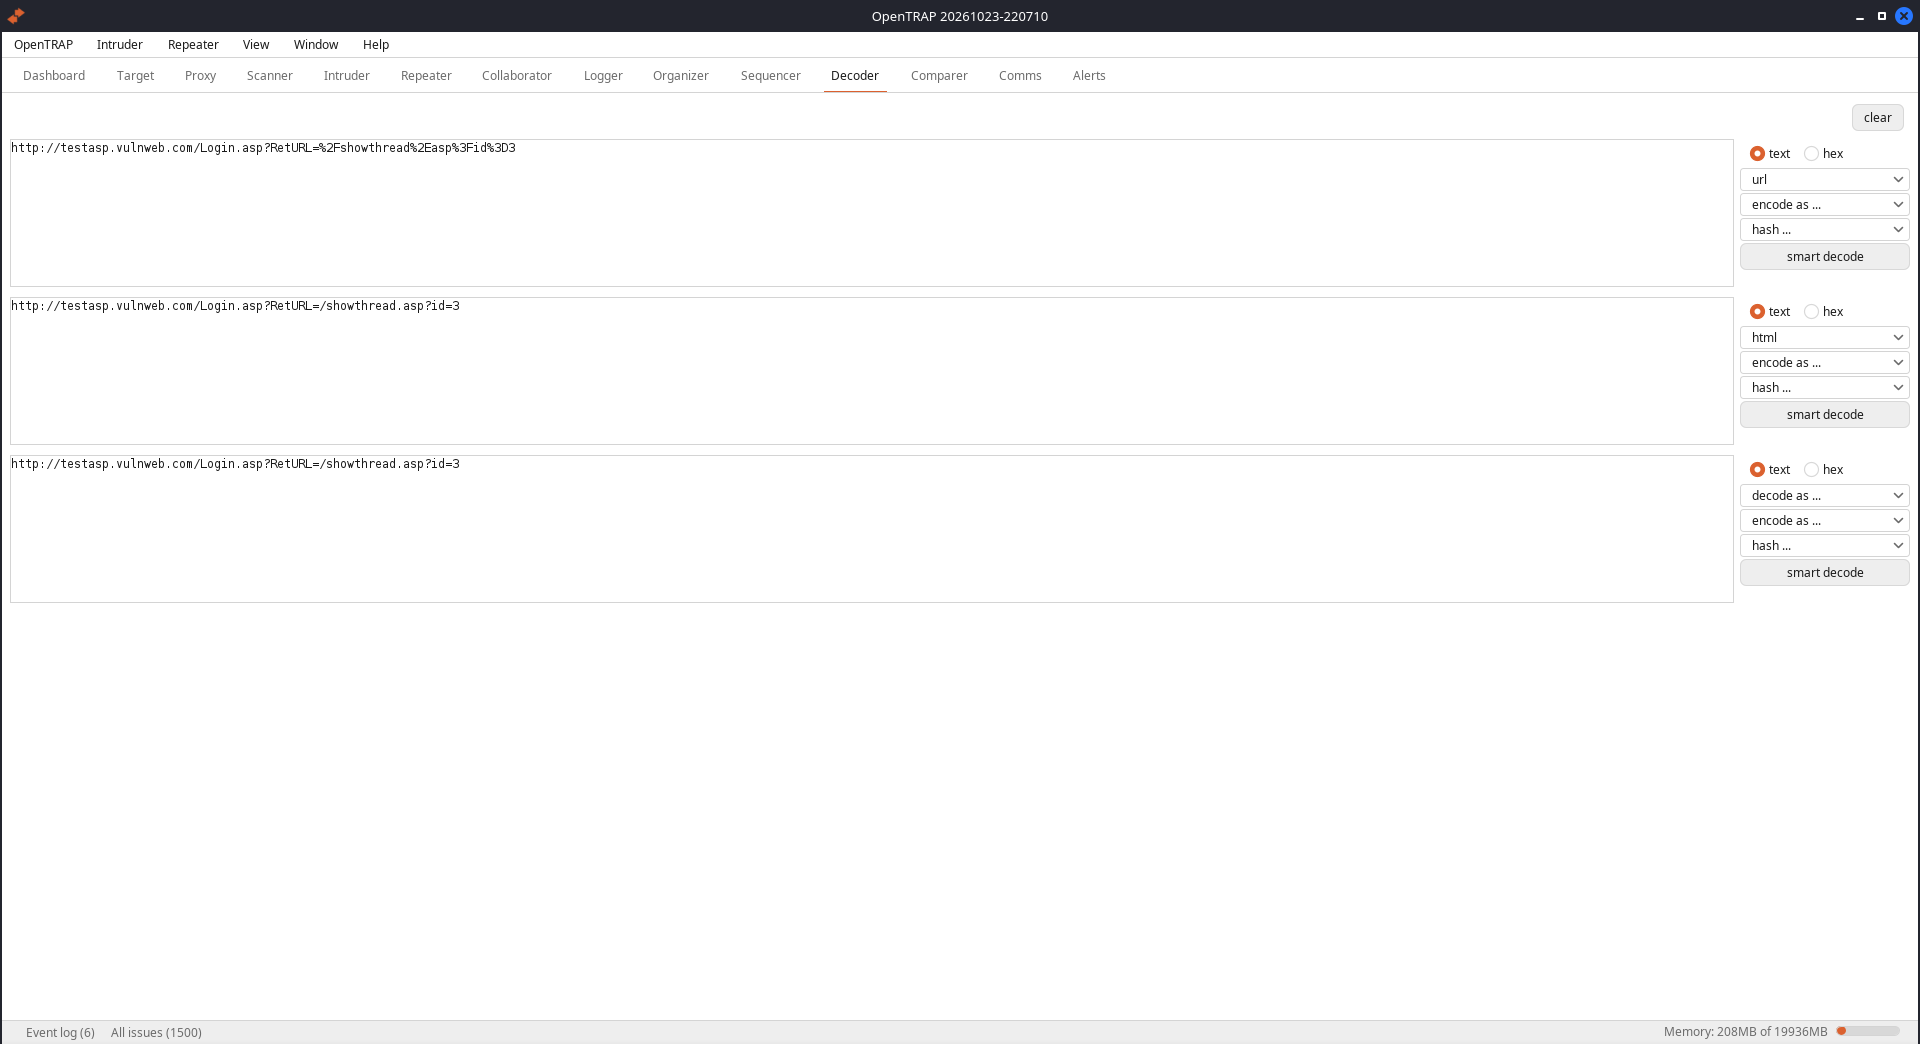
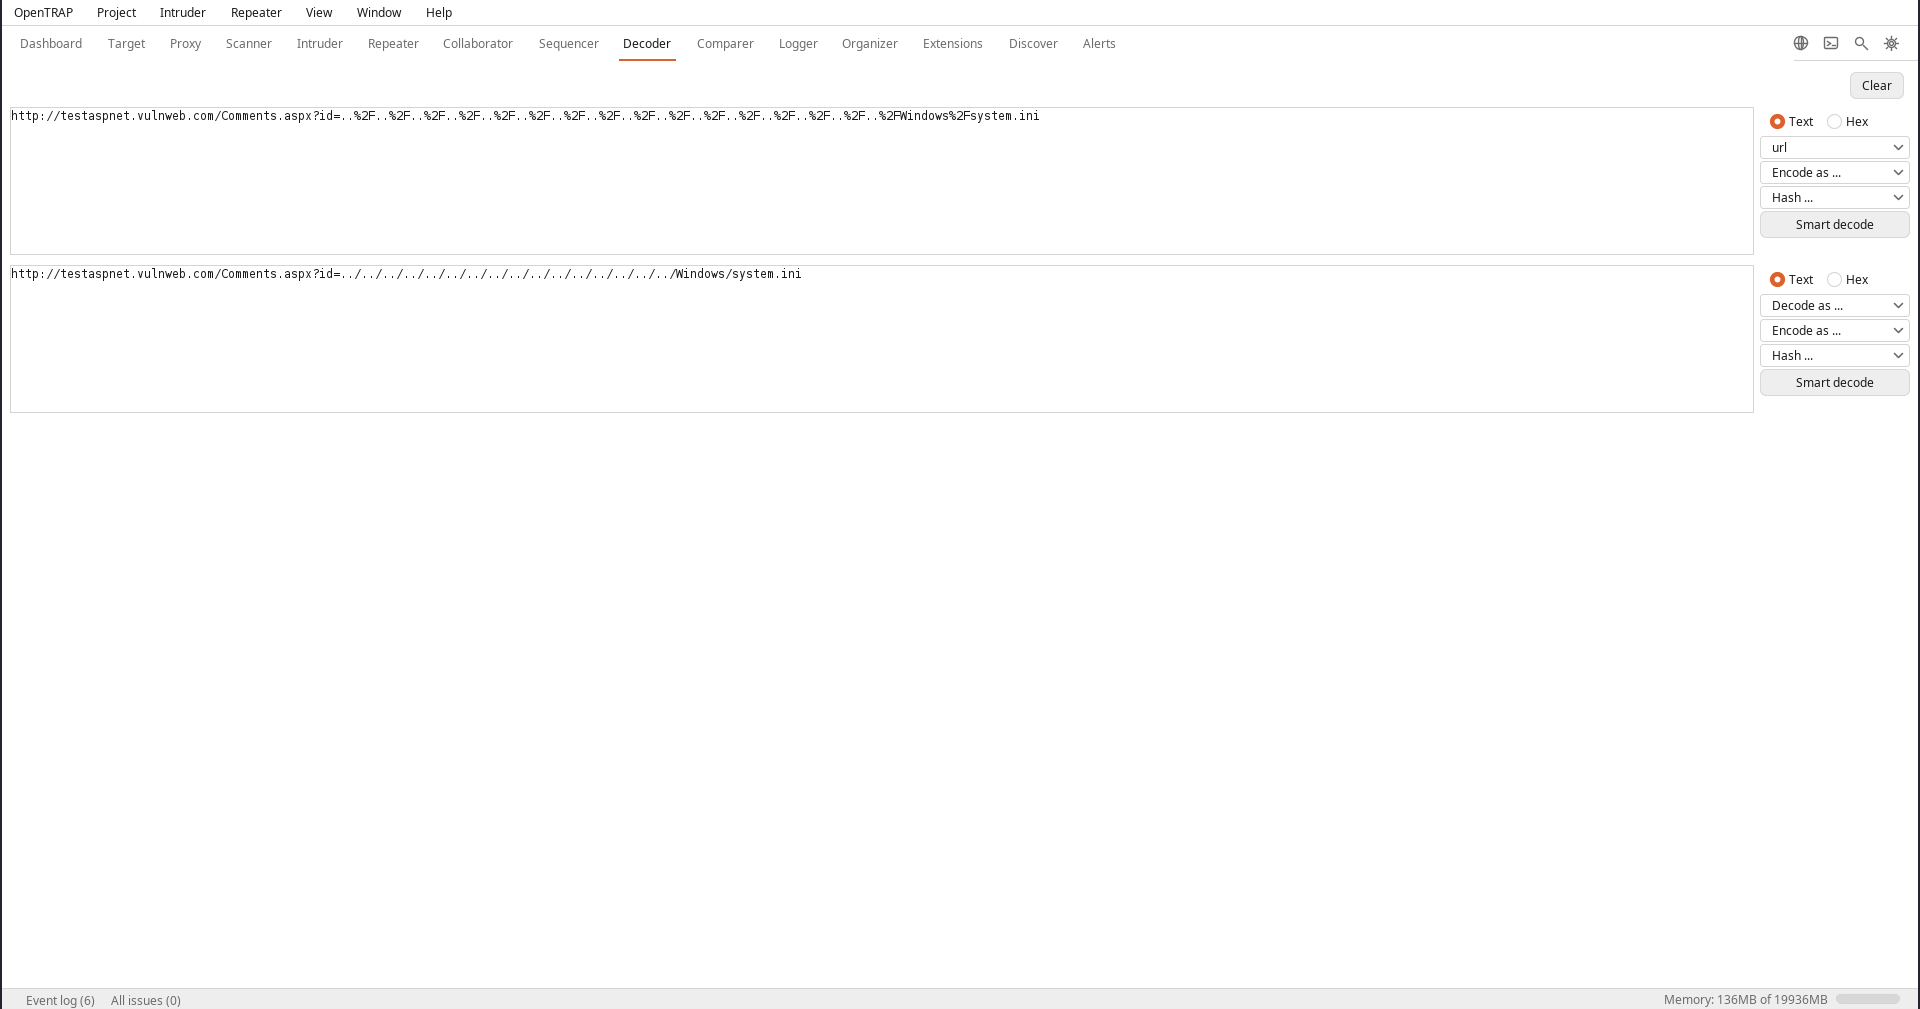
Refresh the screenshots and keep only the ones that earn their place
New captures of the Dashboard, Target, Proxy, Intruder, Collaborator, Logger
and Decoder from the current interface, cropped to the application. The
wizard, custom configuration, Repeater and About shots are gone from the
README and the site: seven pictures show the suite; eleven showed it twice.

diff --git a/README.md b/README.md
@@ -37,9 +37,9 @@ wget https://github.com/opentrap/opentrap/releases/latest/download/opentrap-x86_
 
 <div align="center">
 
-<a href="docs/images/dashboard.png"><img src="docs/images/dashboard.png" width="100%" alt="OpenTRAP dashboard with a crawl finished, an active audit running, and the live table of the most serious vulnerabilities found"></a>
+<a href="docs/images/dashboard.png"><img src="docs/images/dashboard.png" width="100%" alt="OpenTRAP dashboard with a crawl and an audit finished, their cards showing locations found and issues by severity, and the live table of the most serious vulnerabilities found"></a>
 
-<p><sub>A live audit on the Dashboard: crawl complete, active scan running, high-severity findings arriving as they are confirmed.</sub></p>
+<p><sub>The Dashboard after a scan: the crawl's locations and requests, the audit's findings by severity, and the most serious vulnerabilities as they were confirmed.</sub></p>
 
 </div>
 
@@ -98,16 +98,6 @@ licence.
 <table>
 <tr>
 <td width="50%" valign="top">
-<a href="docs/images/scan-config.png"><img src="docs/images/scan-config.png" alt="New scan wizard on the scan-configuration step, showing the Lightweight, Fast, Balanced, Deep and Custom tiers with one selected"></a>
-<br><sub><b>Scan configurations</b><br>Pick a tier from Lightweight to Deep, each covering the same ground and differing only in how far it crawls and how hard it probes.</sub>
-</td>
-<td width="50%" valign="top">
-<a href="docs/images/custom-config.png"><img src="docs/images/custom-config.png" alt="Custom scan configuration screen with a left category list for Crawl, Audit and Injection points and the settings for each"></a>
-<br><sub><b>Custom configuration</b><br>Its own screen for full control: crawl depth, AJAX budget, attack strength, alert threshold and which inputs are tested.</sub>
-</td>
-</tr>
-<tr>
-<td width="50%" valign="top">
 <a href="docs/images/target.png"><img src="docs/images/target.png" alt="Target tab: site map tree, request list, and the issues found with a full advisory for a reflected cross-site scripting finding"></a>
 <br><sub><b>Target</b><br>Site map, scope and every issue found, with the advisory, request and response beside it.</sub>
 </td>
@@ -122,28 +112,18 @@ licence.
 <br><sub><b>Collaborator</b><br>Out-of-band DNS and HTTP interactions captured for blind vulnerabilities, with every callback request on record.</sub>
 </td>
 <td width="50%" valign="top">
-<a href="docs/images/intruder.png"><img src="docs/images/intruder.png" alt="Intruder tab running a sniper attack, with the live attack table of payloads, status, length and timing"></a>
-<br><sub><b>Intruder</b><br>Four attack types with payload sets and processing; the live attack table shows status, length and timing per request.</sub>
+<a href="docs/images/intruder.png"><img src="docs/images/intruder.png" alt="Intruder tab with a sniper attack finished, and the attack window listing payloads, status, length and timing"></a>
+<br><sub><b>Intruder</b><br>Four attack types with payload sets and processing; the attack window shows status, length and timing per request.</sub>
 </td>
 </tr>
 <tr>
 <td width="50%" valign="top">
-<a href="docs/images/repeater.png"><img src="docs/images/repeater.png" alt="Repeater tab with a request and its response in numbered tabs for editing and reissuing"></a>
-<br><sub><b>Repeater</b><br>Edit and reissue a request, one numbered tab at a time, with the full response beside it.</sub>
-</td>
-<td width="50%" valign="top">
-<a href="docs/images/logger.png"><img src="docs/images/logger.png" alt="Logger tab with a filterable table of every request made by the audit, with request and response viewers below"></a>
+<a href="docs/images/logger.png"><img src="docs/images/logger.png" alt="Logger tab with a filterable table of every request made by the crawl, with request and response viewers below"></a>
 <br><sub><b>Logger</b><br>A complete, filterable record of every request OpenTRAP and the scan engine make.</sub>
 </td>
-</tr>
-<tr>
 <td width="50%" valign="top">
-<a href="docs/images/decoder.png"><img src="docs/images/decoder.png" alt="Decoder tab with a URL-encoded path-traversal string decoded to plain text through a transform pipeline"></a>
+<a href="docs/images/decoder.png"><img src="docs/images/decoder.png" alt="Decoder tab with a URL-encoded path-traversal string decoded to plain text"></a>
 <br><sub><b>Decoder</b><br>Chain URL, Base64, hex and hash transforms on any value, or let smart decode work it out for you.</sub>
-</td>
-<td width="50%" valign="top">
-<a href="docs/images/about.png"><img src="docs/images/about.png" alt="About OpenTRAP dialog showing the build, the scan engine in use and where it comes from, the runtime, the licence and project links"></a>
-<br><sub><b>About</b><br>The build, the scan engine in use and where it comes from, the runtime and the licence, stated plainly.</sub>
 </td>
 </tr>
 </table>

diff --git a/docs/index.md b/docs/index.md
@@ -14,7 +14,7 @@ title: OpenTRAP
     </div>
   </div>
   <div class="hshot">
-    <a class="shot" href="images/dashboard.png"><img src="images/dashboard.png" alt="OpenTRAP dashboard with a crawl finished, an active audit running, and the live table of the most serious vulnerabilities found"></a>
+    <a class="shot" href="images/dashboard.png"><img src="images/dashboard.png" alt="OpenTRAP dashboard with a crawl and an audit finished and the live table of the most serious vulnerabilities found"></a>
   </div>
 </div></section>
 
@@ -55,16 +55,12 @@ title: OpenTRAP
     <p>Every tool lives in one window. Click any screenshot for the full-size image.</p>
   </div>
   <div class="gallery">
-    <a class="card" href="images/scan-config.png"><img src="images/scan-config.png" alt="New scan wizard showing the Lightweight, Fast, Balanced, Deep and Custom scan tiers"><div class="cap"><b>Scan configurations</b><span>Pick a tier from Lightweight to Deep. Each covers the same ground and differs only in how far it crawls and how hard it probes, or build a Custom one.</span></div></a>
-    <a class="card" href="images/custom-config.png"><img src="images/custom-config.png" alt="Custom scan configuration screen with Crawl, Audit and Injection point settings"><div class="cap"><b>Custom configuration</b><span>Its own screen for full control: crawl depth, AJAX budget, attack strength, alert threshold and which inputs are tested.</span></div></a>
     <a class="card" href="images/target.png"><img src="images/target.png" alt="Target tab: site map, request list and issues with a full advisory"><div class="cap"><b>Target</b><span>Site map and scope on the left, every request in the middle, every issue on the right with its advisory, request and response beside it.</span></div></a>
     <a class="card" href="images/proxy.png"><img src="images/proxy.png" alt="Proxy tab with interception and the built-in browser"><div class="cap"><b>Proxy &amp; built-in browser</b><span>One click opens a bundled Chromium, already routed through the proxy and trusting its certificate authority. No certificate to install.</span></div></a>
     <a class="card" href="images/collaborator.png"><img src="images/collaborator.png" alt="Collaborator tab with captured out-of-band interactions"><div class="cap"><b>Collaborator</b><span>Generate a payload and watch the out-of-band DNS and HTTP callbacks arrive, each on record, so blind vulnerabilities are proven, not guessed.</span></div></a>
-    <a class="card" href="images/intruder.png"><img src="images/intruder.png" alt="Intruder tab running a sniper attack with the live results table"><div class="cap"><b>Intruder</b><span>Mark positions, pick an attack type, drive a payload set through them. The live table shows status, length and timing per request.</span></div></a>
-    <a class="card" href="images/repeater.png"><img src="images/repeater.png" alt="Repeater tab with request and response in numbered tabs"><div class="cap"><b>Repeater</b><span>Edit and reissue a request, one numbered tab at a time, with the full response beside it. The quickest way to probe an endpoint by hand.</span></div></a>
+    <a class="card" href="images/intruder.png"><img src="images/intruder.png" alt="Intruder tab with a finished sniper attack and its results window"><div class="cap"><b>Intruder</b><span>Mark positions, pick an attack type, drive a payload set through them. The attack window shows status, length and timing per request.</span></div></a>
     <a class="card" href="images/logger.png"><img src="images/logger.png" alt="Logger tab with a filterable table of every request"><div class="cap"><b>Logger</b><span>A complete, filterable record of every request OpenTRAP and the scan engine make, tagged by the tool that sent it. Nothing happens behind your back.</span></div></a>
-    <a class="card" href="images/decoder.png"><img src="images/decoder.png" alt="Decoder tab with a transform pipeline"><div class="cap"><b>Decoder</b><span>Build a pipeline of URL, Base64, hex and hash transforms in either direction, or let smart decode work out the encoding for you.</span></div></a>
-    <a class="card" href="images/about.png"><img src="images/about.png" alt="About OpenTRAP dialog"><div class="cap"><b>About</b><span>The build, the scan engine in use and where it comes from, the runtime and the licence, stated plainly. OpenTRAP is open about what is inside it.</span></div></a>
+    <a class="card" href="images/decoder.png"><img src="images/decoder.png" alt="Decoder tab decoding a URL-encoded value"><div class="cap"><b>Decoder</b><span>URL, Base64, hex and hash transforms in either direction, or let smart decode work out the encoding for you.</span></div></a>
   </div>
 </div></section>
 
